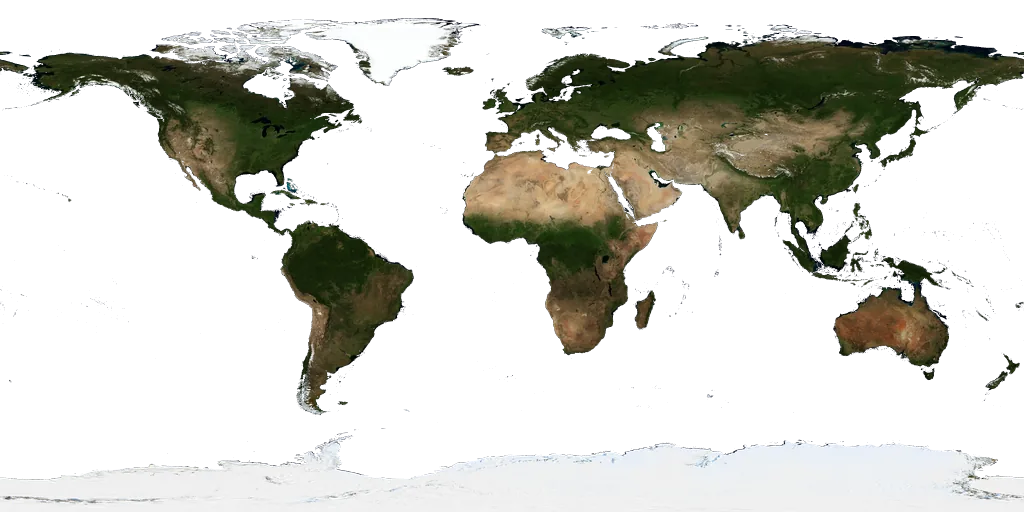
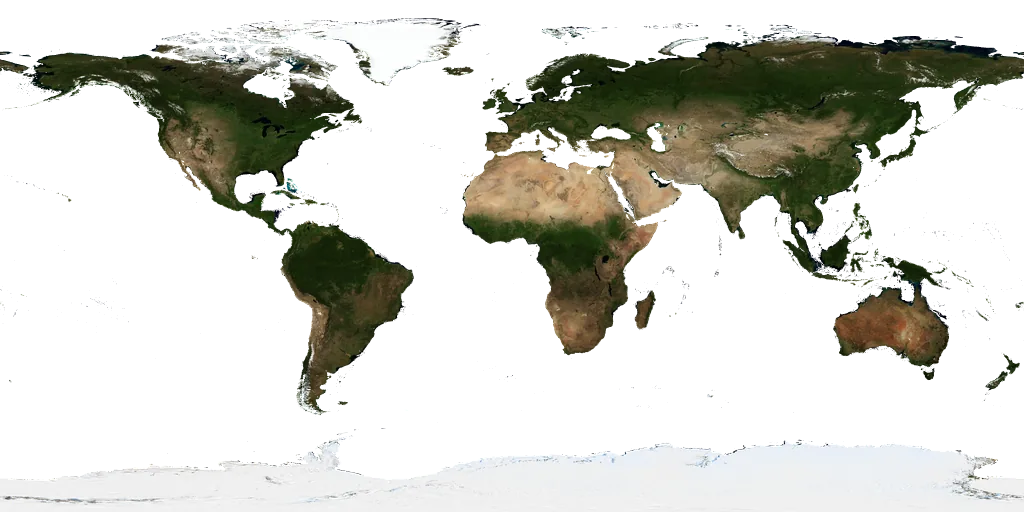
✨ feat(find-home): sharp procedural coastlines on Earth

diff --git a/apps/find-home/js/shaders.js b/apps/find-home/js/shaders.js
@@ -536,6 +536,9 @@ const float DETAIL_ALBEDO = 0.3;
 const float CLOUD_DETAIL = 0.25;
 const vec3 CLOUD_ALBEDO = vec3(0.95);
 const float OCEAN_GLINT = 0.6;
+const vec3 OCEAN_ALBEDO = vec3(2.0, 5.0, 20.0) / 255.0;
+const float COAST_ROUGHNESS = 1.2;
+const float COAST_SHARPEST = 0.01;
 const float OCEAN_SHININESS = 250.0;
 const float CLOUD_SCALE = 7.0;
 const float CLOUD_STRETCH = 1.6;
@@ -619,6 +622,13 @@ vec3 shadeBody(int i, vec3 direction, float hit, float radius) {
   float mapTexel = 6.2831853 / MAP_WIDTH;
   float octaves = clamp(log2(mapTexel / max(footprint, 1e-9)), 0.0, MAX_DETAIL_OCTAVES);
   vec3 detailPoint = local / mapTexel;
+  if (look.w == BODY_OCEAN_WORLD && mapped) {
+    float edgeWidth = clamp(0.5 * footprint / mapTexel, COAST_SHARPEST, 0.5);
+    float nearCoast = 4.0 * land * (1.0 - land);
+    float coastline = land + COAST_ROUGHNESS * nearCoast * detailNoise(detailPoint + vec3(31.7, 4.3, 17.9), octaves);
+    land = smoothstep(0.5 - edgeWidth, 0.5 + edgeWidth, coastline);
+    albedo = mix(OCEAN_ALBEDO, albedo, land);
+  }
 
   vec3 shaded = normal;
   if (mapped) {

diff --git a/apps/find-home/tools/build-planet-maps.py b/apps/find-home/tools/build-planet-maps.py
@@ -10,8 +10,6 @@ Raw downloads (all NASA, public domain):
   world.200407.3x5400x2700.jpg     NASA Earth Observatory, Blue Marble Next Generation, July 2004
   gebco_08_rev_elev_5400x2700.jpg  NASA Earth Observatory from GEBCO, land elevation 0-6400 m
   gebco_08_rev_bath_5400x2700.jpg  NASA Earth Observatory from GEBCO, 255 on land, lower over water
-
-Earth's colour map carries a land mask in alpha: opaque land, transparent water.
 """
 
 import json
@@ -27,6 +25,9 @@ COLOUR_QUALITY = 82
 EARTH_HIGHEST_M = 6400
 DRY_LAND = 255
 SEA_ICE_FLOOR = 50
+COAST_UNMIX_FLOOR = 0.35
+COAST_FILL_STEPS = 6
+NEIGHBOUR_SHIFTS = [(1, 0), (-1, 0), (1, 1), (-1, 1)]
 OUT = Path(__file__).resolve().parent.parent / 'data' / 'planets'
 
 
@@ -37,17 +38,35 @@ def centred_on_prime_meridian(heights, starts_at_zero_east):
 def save_colour(source, name, land=None):
     colour = Image.open(source).convert('RGB').resize((WIDTH, HEIGHT), Image.LANCZOS)
     if land is not None:
-        colour = without_sea_ice_blocks(colour, land)
+        ocean = ocean_colour(colour, land)
+        print(f'{name} open-ocean colour: {ocean.round().astype(int).tolist()}')
+        colour = land_colour_everywhere(colour, land, ocean)
         colour.putalpha(land)
     colour.save(OUT / f'{name}-colour.webp', quality=COLOUR_QUALITY, method=6, exact=True)
 
 
-def without_sea_ice_blocks(colour, land):
-    pixels = np.asarray(colour).copy()
+def ocean_colour(colour, land):
+    pixels = np.asarray(colour)
     water = np.asarray(land) == 0
-    ice = water & (pixels.min(axis=2) > SEA_ICE_FLOOR)
-    pixels[ice] = np.median(pixels[water & ~ice], axis=0)
-    return Image.fromarray(pixels, 'RGB')
+    open_water = water & (pixels.min(axis=2) <= SEA_ICE_FLOOR)
+    return np.median(pixels[open_water], axis=0)
+
+
+def land_colour_everywhere(colour, land, ocean):
+    pixels = np.asarray(colour).astype(np.float64)
+    share = np.asarray(land).astype(np.float64)[..., None] / 255
+    known = share[..., 0] >= COAST_UNMIX_FLOOR
+    unmixed = (pixels - (1 - share) * ocean) / np.maximum(share, 1e-6)
+    filled = np.where(known[..., None], np.clip(unmixed, 0, 255), 0)
+    weight = known.astype(np.float64)
+    for _ in range(COAST_FILL_STEPS):
+        neighbours = sum(np.roll(filled * weight[..., None], shift, axis) for shift, axis in NEIGHBOUR_SHIFTS)
+        count = sum(np.roll(weight, shift, axis) for shift, axis in NEIGHBOUR_SHIFTS)
+        grow = (weight == 0) & (count > 0)
+        filled[grow] = neighbours[grow] / count[grow, None]
+        weight[grow] = 1
+    filled[weight == 0] = ocean
+    return Image.fromarray(np.round(filled).astype(np.uint8), 'RGB')
 
 
 def grey(path):
